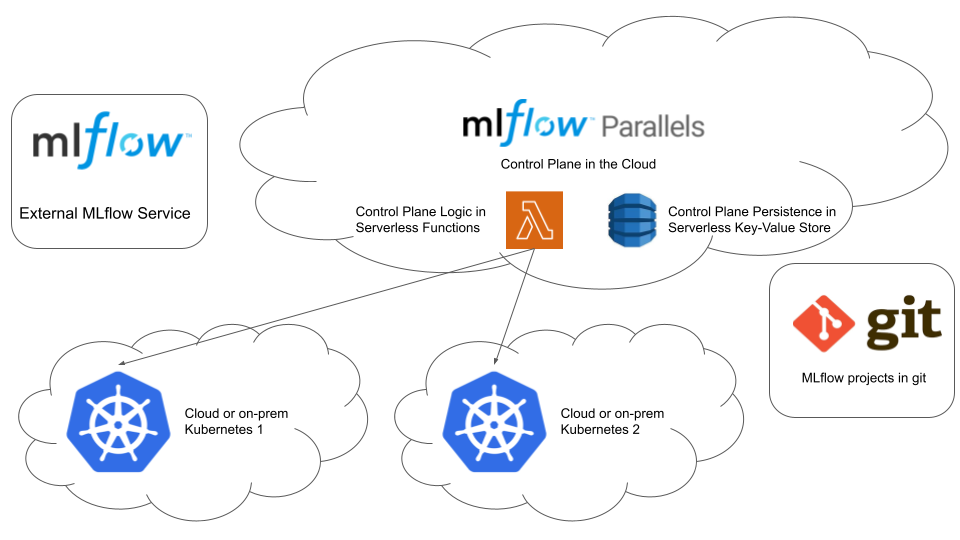
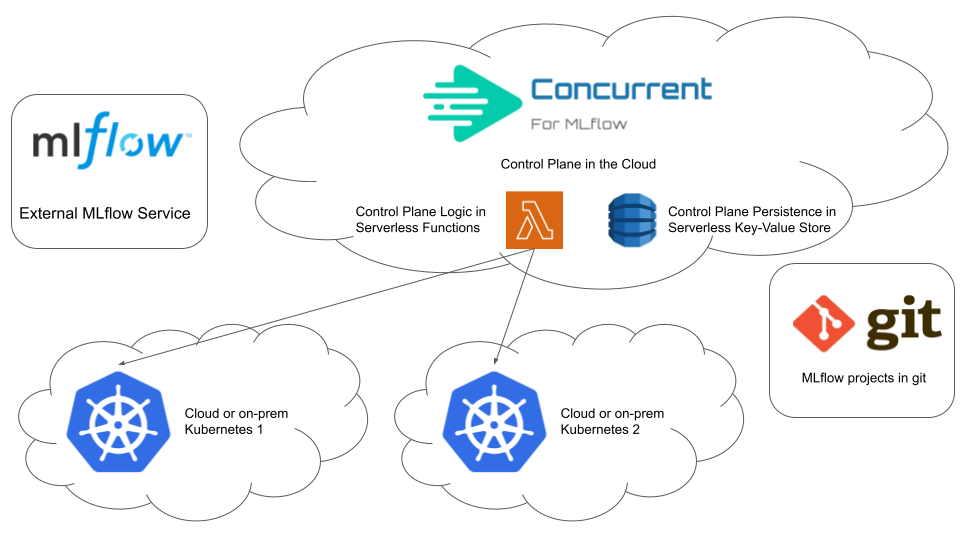
more docs improvements

Changed region(s): [[0.4375, 0.1185, 0.75, 0.2667]]

diff --git a/docs/docs.mlflow-parallels.org/docs/files/free-cli.md b/docs/docs.mlflow-parallels.org/docs/files/free-cli.md
@@ -8,23 +8,23 @@ Here are the commands for setting up the environment variables in the bash shell
 ```
 export MLFLOW_TRACKING_URI=infinstor://mlflow.concurrent-ai.org/
 export MLFLOW_EXPERIMENT_ID=<Experiment ID Created right after signup>
-export MLFLOW_PARALLELS_URI=https://parallels.concurrent-ai.org/
+export MLFLOW_CONCURRENT_URI=https://concurrent.concurrent-ai.org/
 ```
 
 ## Install required pip packages
 
-The parallels_plugin is required for Concurrent for MLflow and infinstor_mlflow_plugin is required for the InfinStor MLflow service, which is included as part of the Concurrent for MLflow Free Service
+The concurrent_plugin is required for Concurrent for MLflow and infinstor_mlflow_plugin is required for the InfinStor MLflow service, which is included as part of the Concurrent for MLflow Free Service
 
 ```
-pip install parallels_plugin
+pip install concurrent_plugin
 pip install infinstor_mlflow_plugin
 ```
 
 ## Login to the service
 
 ```
-python -m parallels_plugin.login
-Unable to read token file /home/jagane/.mlflow-parallels/token when MLFLOW_PARALLELS_URI=https://parallels.concurrent-ai.org/.  run login_parallels cli command to login or place a valid token file as /home/jagane/.mlflow-parallels/token
+python -m concurrent_plugin.login
+Unable to read token file /home/jagane/.concurrent/token when MLFLOW_CONCURRENT_URI=https://concurrent.concurrent-ai.org/.  run login_concurrent cli command to login or place a valid token file as /home/jagane/.concurrent/token
 Username: test1
 Password: 
 Login completed
@@ -45,13 +45,13 @@ mlflow experiments list
 Here's an example of running an MLflow Project using the Concurrent for MLflow Free service
 
 ```
-mlflow run -b parallels-backend --backend-config '{"backend-type": "gke", "kube-context": "parallels-free", "kube-namespace": "parallelsns", "resources.requests.memory": "1024Mi", "kube-client-location": "backend"}' https://github.com/jagane-infinstor/mlflow-example-docker.git -Palpha=0.62 -Pl1_ratio=0.02
+mlflow run -b concurrent-backend --backend-config '{"backend-type": "gke", "kube-context": "concurrent-free", "kube-namespace": "parallelsns", "resources.requests.memory": "1024Mi", "kube-client-location": "backend"}' https://github.com/jagane-infinstor/mlflow-example-docker.git -Palpha=0.62 -Pl1_ratio=0.02
 ```
 
 Here are some noteworthy items. The backend-config contains useful options:
 
 - **backend-type**: **gke** in this example; other K8s implementations are supported
-- **kube-context**: The name of the cluster, **parallels-free** in this example
+- **kube-context**: The name of the cluster, **concurrent-free** in this example
 - **kube-namespace**: The name of the namespace in the cluster, **parallelsns** in this example
 - **resources.requests.memory**: Memory requested for this container. **1024Mi** in this example
 - **kube-client-location**: **backend** indicates that the dockerfile creation will be taken care of by the Concurrent for MLflow backend

diff --git a/docs/docs.mlflow-parallels.org/docs/files/add-k8s-role.md b/docs/docs.mlflow-parallels.org/docs/files/add-k8s-role.md
@@ -48,5 +48,5 @@ rolebinding.rbac.authorization.k8s.io/k8s-service-account-binding-parallelsns cr
 
 Finally, test that cluster setup worked by running a test MLflow Project as follows:
 ```
-mlflow run -b parallels-backend --backend-config '{"backend-type": "gke", "kube-context": "<your_cluster_name_here>", "kube-namespace": "parallelsns", "resources.requests.memory": "1024Mi", "kube-client-location": "backend"}' https://github.com/jagane-infinstor/mlflow-example-docker.git -Palpha=0.62 -Pl1_ratio=0.02
+mlflow run -b concurrent-backend --backend-config '{"backend-type": "gke", "kube-context": "<your_cluster_name_here>", "kube-namespace": "parallelsns", "resources.requests.memory": "1024Mi", "kube-client-location": "backend"}' https://github.com/jagane-infinstor/mlflow-example-docker.git -Palpha=0.62 -Pl1_ratio=0.02
 ```

diff --git a/docs/docs.mlflow-parallels.org/docs/files/install-create.md b/docs/docs.mlflow-parallels.org/docs/files/install-create.md
@@ -35,5 +35,5 @@ XXX: Document how the role ARN and the ext are taken from the CloudFormation tem
 Finally, test the system by running a MLflow Project. For example,
 
 ```
-mlflow run -b parallels-backend --backend-config '{"backend-type": "eks", "kube-context": "mlflow-parallels", "kube-namespace": "default", "resources.requests.memory": "1024Mi", "kube-client-location": "backend"}' https://github.com/jagane-infinstor/mlflow-example-docker.git -Palpha=0.62 -Pl1_ratio=0.02
+mlflow run -b concurrent-backend --backend-config '{"backend-type": "eks", "kube-context": "concurrent-free", "kube-namespace": "default", "resources.requests.memory": "1024Mi", "kube-client-location": "backend"}' https://github.com/jagane-infinstor/mlflow-example-docker.git -Palpha=0.62 -Pl1_ratio=0.02
 ```

diff --git a/docs/docs.mlflow-parallels.org/docs/files/install-existing.md b/docs/docs.mlflow-parallels.org/docs/files/install-existing.md
@@ -102,5 +102,5 @@ XXX
 Finally, test the system by running a MLflow Project. For example,
 
 ```
-mlflow run -b parallels-backend --backend-config '{"backend-type": "eks", "kube-context": "kubetest32", "kube-namespace": "parallelsns", "resources.requests.memory": "1024Mi", "kube-client-location": "backend"}' https://github.com/jagane-infinstor/mlflow-example-docker.git -Palpha=0.62 -Pl1_ratio=0.02
+mlflow run -b concurrent-backend --backend-config '{"backend-type": "eks", "kube-context": "concurrent-free", "kube-namespace": "parallelsns", "resources.requests.memory": "1024Mi", "kube-client-location": "backend"}' https://github.com/jagane-infinstor/mlflow-example-docker.git -Palpha=0.62 -Pl1_ratio=0.02
 ```

diff --git a/docs/docs.mlflow-parallels.org/docs/index.md b/docs/docs.mlflow-parallels.org/docs/index.md
@@ -1,3 +1,5 @@
+[![](https://docs.concurrent-ai.org/images/concurrent-banner.png?raw=true)](https://docs.concurrent-ai.org/images/concurrent-banner.png?raw=true)
+
 **Concurrent for MLflow** is an **Apache Licensed** open source project for running MLflow projects, in parallel, in **Kubernetes**. It enhances MLflow with two important capabilities:
 
 - Effortlessly run MLflow Projects in Kubernetes, without the hassle of dealing with docker

diff --git a/docs/docs.mlflow-parallels.org/docs/files/free-helloworld.md b/docs/docs.mlflow-parallels.org/docs/files/free-helloworld.md
@@ -41,7 +41,7 @@ We have chosen a container with 256 Megabytes of RAM and 250 milli CPUs, i.e. on
 
 These are some details that you will need while trying this out:
 
-- Kubernetes Cluster: **parallels-free**
+- Kubernetes Cluster: **concurrent-free**
 - Cluster's Namespace: **parallelsns**
 - GIT Url: **https://github.com/concurrent-ai/concurrent-examples.git**
 - Project Path: **helloworld**
